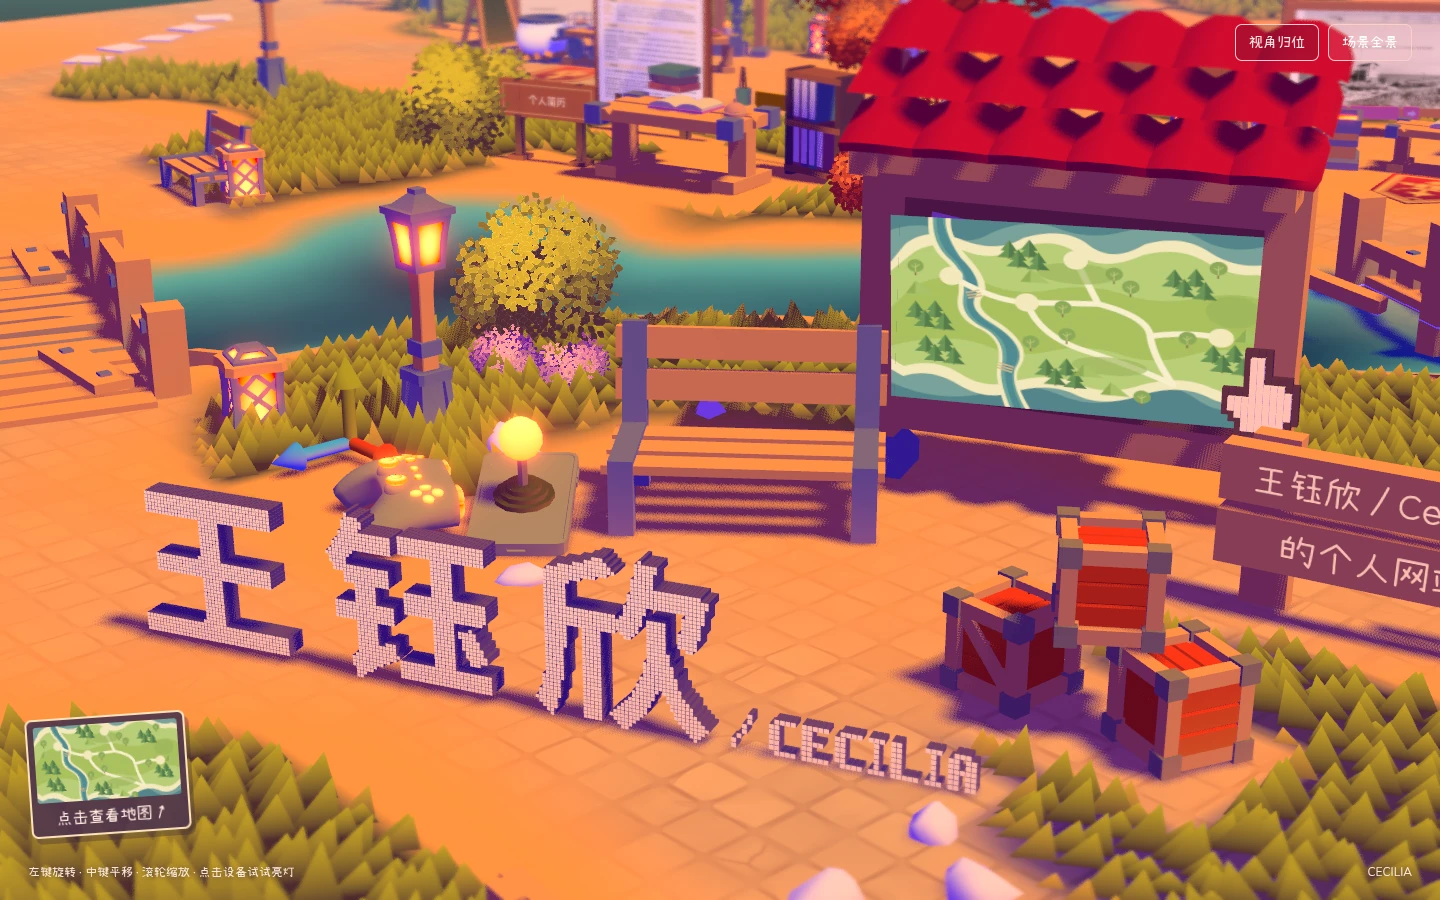
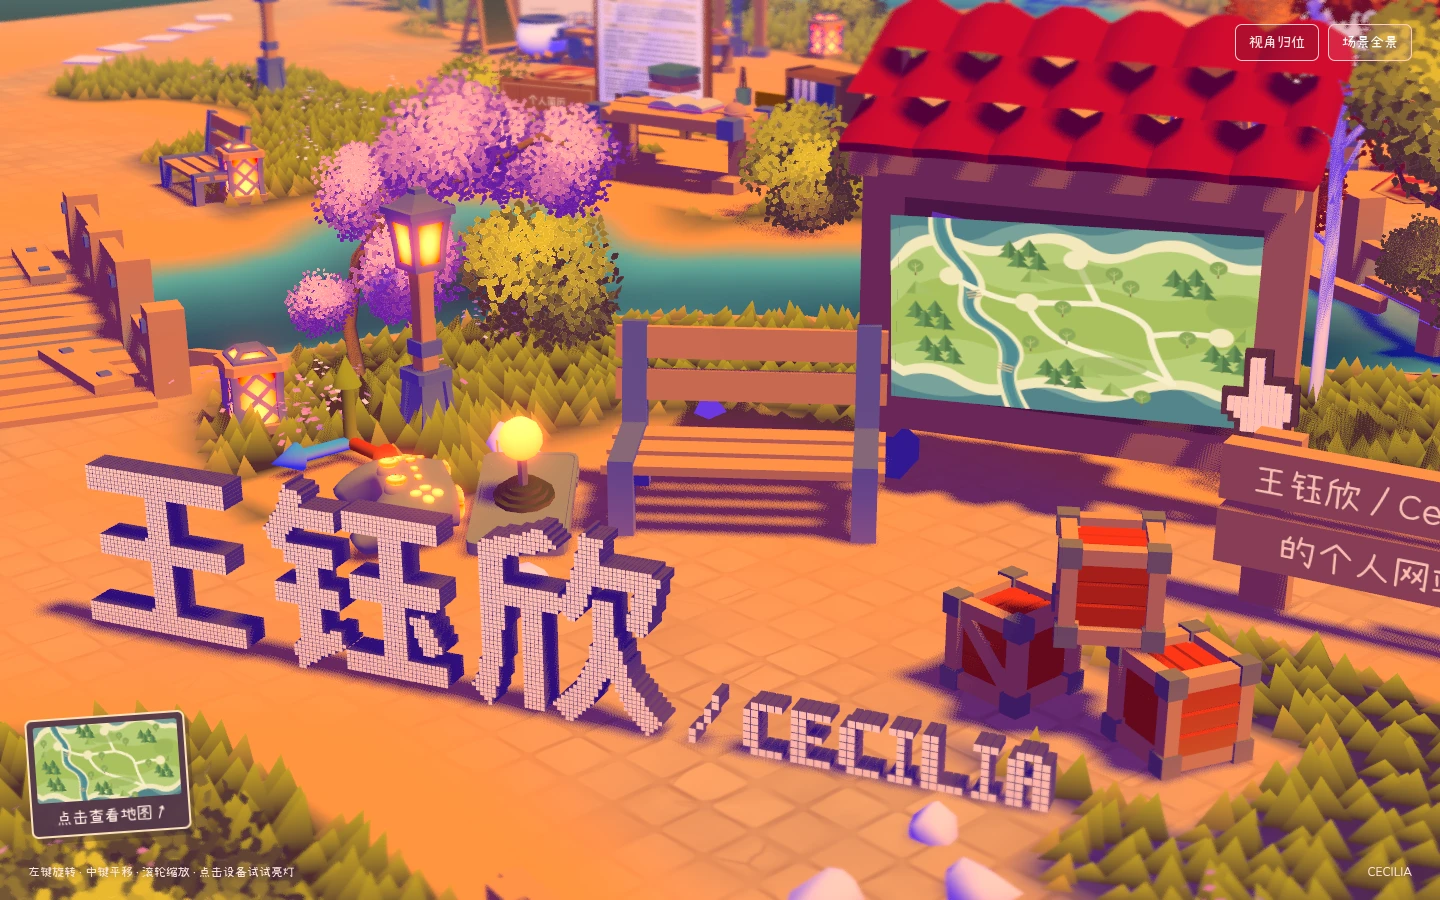
Restore native flowers and denser woodland, enlarge entry name and remove mailbox frame

diff --git a/experiments/bruno-projects/src/create-world.js b/experiments/bruno-projects/src/create-world.js
@@ -18,7 +18,7 @@ import { Floor } from "./bruno/World/Floor.js";
 import { Grass } from "./bruno/World/Grass.js";
 import { Trees } from "./bruno/World/Trees.js";
 import { Bushes } from "./bruno/World/Bushes.js";
-import { Foliage } from "./bruno/World/Foliage.js";
+import { Flowers } from "./bruno/World/Flowers.js";
 import { cheapDOF } from "./bruno/Passes/cheapDOF.js";
 
 export { T };
@@ -136,6 +136,7 @@ export async function createWorld(canvas, progress) {
     birchTreesReferencesModel: "birchTrees/birchTreesReferences.glb",
     cherryTreesVisualModel: "cherryTrees/cherryTreesVisual.glb",
     cherryTreesReferencesModel: "cherryTrees/cherryTreesReferences.glb",
+    flowersReferencesModel: "flowers/flowersReferences.glb",
     benchesModel: "benches/benches.glb",
     fencesModel: "fences/fences.glb",
     lanternsModel: "lanterns/lanterns.glb",
@@ -289,37 +290,39 @@ export async function createWorld(canvas, progress) {
   game.world.grass.bladeHeight.value = 0.65;
   const near = (object) =>
     Math.hypot(object.position.x - center.x, object.position.z - center.z) < 48;
+  const nearVegetation = (object) =>
+    Math.hypot(object.position.x - center.x, object.position.z - center.z) < 72;
+  // Rectangles follow the actual fixtures, rather than clearing whole 9–12m
+  // circles around them. Keep the open entrance silhouette and dry paths.
+  const beds = {
+    trees:[[35,31,51,46],[18.5,19,30,28],[49.5,25,59.5,35],[21,2,29,10],[30,9,39,17],[10,14,18,22]],
+    low:[[35,35,43,42],[39,30,46.5,36.5],[46,33,50,36],[19.5,20,29,28],[50,26,59,34],[24,5,38,15],[10,14,18,21]],
+  };
+  const inBed=(x,z,kind)=>beds[kind].some(([left,top,right,bottom])=>x>left&&x<right&&z>top&&z<bottom);
+  const inName=(x,z)=>{
+    const a=Math.PI/7.2,dx=x-43,dz=z-42.5;
+    return Math.abs(dx*Math.cos(a)-dz*Math.sin(a))<7 && Math.abs(dx*Math.sin(a)+dz*Math.cos(a))<1.1;
+  };
+  game.world.vegetationStats={trees:{},bushes:0,flowers:0};
   for (const [type, a, b] of [
     ["oak", "#b4b536", "#d8cf3b"],
     ["birch", "#ff4f2b", "#ff903f"],
     ["cherry", "#ed82a0", "#ffc1c5"],
   ]) {
-    const clearings = [
-      [43, 43, 7],
-      [25, 6, 4],
-      [35, 13, 4],
-      [14, 18, 3],
-      [48, 25, 7],
-      [26, 24, 9],
-      [47, 29, 7],
-      [45, 49, 12],
-    ];
     const refs = game.resources[type + "TreesReferencesModel"].scene.children
-      .filter(near)
-      .filter((tree) =>
-        clearings.every(
-          ([x, z, r]) =>
-            Math.hypot(tree.position.x - x, tree.position.z - z) > r,
-        ),
-      );
+      .filter(nearVegetation)
+      .filter(tree=>!inBed(tree.position.x,tree.position.z,"trees")&&surface.check(tree.position.x,tree.position.z,.5,.5).maxWater<=5);
     if(type==="cherry"){
-      // Restore pink accents around the clearings, never on paving or water.
+      // Reuse the native cherry geometry to flank our wider bilingual entry.
+      // The native tree at the controller's location cannot stay under it.
       const template=game.resources.cherryTreesReferencesModel.scene.children[0];
-      for(const [x,z,scale] of [[32,35,.65],[47,23,.6],[59,33,.7]]){
-        if(surface.check(x,z,1.8,1.8).maxWater>5||surface.sample(x,z).road>120)continue;
-        const tree=template.clone();tree.position.set(x,surface.sample(x,z).height,z);tree.scale.multiplyScalar(scale);tree.updateMatrix();tree.updateMatrixWorld();refs.push(tree);
+      for(const [x,z,scale] of [[33,38,.75],[59,39,.65]]){
+        const ground=surface.check(x,z,.7,.7);
+        if(ground.maxWater>5||surface.sample(x,z).road>120)continue;
+        const ref=template.clone();ref.position.set(x,ground.height,z);ref.scale.multiplyScalar(scale);ref.updateMatrix();ref.updateMatrixWorld(true);refs.push(ref);
       }
     }
+    game.world.vegetationStats.trees[type]=refs.length;
     if (refs.length)
       game.world[type + "Trees"] = new Trees(
         type,
@@ -330,25 +333,23 @@ export async function createWorld(canvas, progress) {
       );
   }
   game.resources.bushesReferences.scene.children =
-    game.resources.bushesReferences.scene.children.filter(near).filter((b) =>
-      [
-        [26, 24, 6],
-        [47, 29, 5],
-        [45, 49, 12],
-      ].every(
-        ([x, z, r]) => Math.hypot(b.position.x - x, b.position.z - z) > r,
-      ),
+    game.resources.bushesReferences.scene.children.filter(nearVegetation).filter((b) =>
+      !inBed(b.position.x,b.position.z,"low")&&!inName(b.position.x,b.position.z),
     );
   game.world.bushes = new Bushes();
-  const flowers=[];
-  const bushTemplate=game.resources.bushesReferences.scene.children[0];
-  for(const [x,z] of [[34,36],[35,35.6],[46,23],[47,22.8],[58.5,32.5],[59.2,33.4]]){
-    if(surface.check(x,z,.7,.7).maxWater>5||surface.sample(x,z).road>120)continue;
-    const ref=bushTemplate.clone();ref.position.set(x,surface.sample(x,z).height+.22,z);ref.scale.setScalar(.45);ref.updateMatrix();flowers.push(ref);
+  game.world.vegetationStats.bushes=game.resources.bushesReferences.scene.children.length;
+  const flowerRefs=game.resources.flowersReferencesModel.scene.children.filter(nearVegetation);
+  // Native clusters now populate the banks and path edges, including the
+  // foreground that was previously blank. Each individual cluster is checked.
+  for(const [x,z] of [[33,36],[34,38],[34,41],[36,46],[39,48],[44,48],[49,47],[51,41],[52,36],[48,23],[29,29],[20,29]]){
+    const ref=new T.Object3D();ref.position.set(x,surface.sample(x,z).height+.384,z);flowerRefs.push(ref);
   }
-  if(flowers.length){
-    game.world.pinkFlowers=new Foliage(flowers,uniform(color("#df7198")),uniform(color("#ffb6bc")));
-  }
+  const flowerAccepts=(x,z)=>{
+    const floor=surface.sample(x,z);
+    return floor.water<=5&&floor.road<120&&floor.grass>100&&!inBed(x,z,"low")&&!inName(x,z);
+  };
+  game.world.flowers=new Flowers(flowerRefs,flowerAccepts);
+  game.world.vegetationStats.flowers=game.world.flowers.transformMatrices.length;
   function clean(root) {
     const remove = [];
     root.traverse((m) => {

diff --git a/experiments/bruno-projects/src/bruno/World/Flowers.js b/experiments/bruno-projects/src/bruno/World/Flowers.js
@@ -1,0 +1,69 @@
+// Adapted from Bruno Simon's folio-2025 Flowers.js (MIT, pinned in ASSET_SOURCE).
+// Retains the original eight-petal clusters and wind; filters new fixtures out.
+import * as THREE from 'three/webgpu'
+import { attribute, color, Fn, instance, mix, positionLocal, vec3 } from 'three/tsl'
+import { mergeGeometries } from 'three/addons/utils/BufferGeometryUtils.js'
+import { alea } from 'seedrandom'
+import { Game } from '../Game.js'
+import { MeshDefaultMaterial } from '../Materials/MeshDefaultMaterial.js'
+
+export class Flowers {
+    constructor(references, accepts) {
+        this.game = Game.getInstance()
+        this.references = references
+        const rng = new alea('flowers')
+        const matrices = [], tints = []
+        this.positions = []
+        for(const ref of references) {
+            const count = 3 + Math.floor(rng() * 8)
+            for(let i = 0; i < count; i++) {
+                const x = ref.position.x + (rng() - .5) * 3
+                const z = ref.position.z + (rng() - .5) * 3
+                const angle = rng() * Math.PI * 2, scale = .6 + rng() * .4
+                const tint = rng() < .65 ? .8 + rng() * .2 : .1
+                if(!accepts(x,z)) continue
+                const object = new THREE.Object3D()
+                object.position.set(x,ref.position.y,z)
+                object.rotation.y = angle
+                object.scale.setScalar(scale)
+                object.updateMatrix()
+                matrices.push(object.matrix)
+                tints.push(tint)
+                this.positions.push([x,z])
+            }
+        }
+        this.transformMatrices = matrices
+        const planes = []
+        for(let i = 0; i < 8; i++) {
+            const plane = new THREE.PlaneGeometry(.08,.08)
+            const spherical = new THREE.Spherical(1,Math.PI * .2 * rng(),Math.PI * 2 * rng())
+            const direction = new THREE.Vector3().setFromSpherical(spherical)
+            const position = direction.clone().setLength(1 + (rng() - .5) * .5)
+            position.y -= .75
+            const matrix = new THREE.Matrix4().lookAt(direction,new THREE.Vector3(),new THREE.Vector3(0,1,0))
+            matrix.setPosition(position).scale(new THREE.Vector3().setScalar(1 + rng() - .5))
+            planes.push(plane.applyMatrix4(matrix))
+        }
+        const geometry = mergeGeometries(planes)
+        planes.forEach(p=>p.dispose())
+        geometry.deleteAttribute('uv')
+        geometry.setAttribute('flowerTint',new THREE.InstancedBufferAttribute(new Float32Array(tints),1))
+        this.material = new MeshDefaultMaterial({
+            side:THREE.DoubleSide,
+            colorNode:mix(color('#fff3df'),color('#ef93b7'),attribute('flowerTint','float')),
+            hasWater:false,
+        })
+        this.instanceMatrix = new THREE.InstancedBufferAttribute(new Float32Array(matrices.length * 16),16)
+        matrices.forEach((matrix,i)=>matrix.toArray(this.instanceMatrix.array,i * 16))
+        this.material.positionNode = Fn(({object})=>{
+            instance(object.count,this.instanceMatrix).toStack()
+            const wind = this.game.wind.offsetNode(positionLocal.xz)
+            return positionLocal.add(vec3(wind.x,0,wind.y).mul(positionLocal.y.clamp(0,1)))
+        })()
+        this.mesh = new THREE.InstancedMesh(geometry,this.material,matrices.length)
+        this.mesh.name = 'native-pink-and-ivory-flowers'
+        this.mesh.castShadow = this.mesh.receiveShadow = true
+        this.mesh.frustumCulled = false
+        this.game.scene.add(this.mesh)
+    }
+}

diff --git a/experiments/bruno-projects/src/scene-fixtures.js b/experiments/bruno-projects/src/scene-fixtures.js
@@ -276,7 +276,7 @@ export function createFixtures(world) {
     const roof = box(root, [1.2, 0.16, 0.92], [-0.65, 2.18, 0], "edge");
     roof.rotation.z = -0.06;
     box(root, [0.62, 0.055, 0.04], [-0.65, 1.8, 0.39], "edge");
-    const letter = print("邮箱", 0.85, 0.38, { bg: "#b65a69", size: 180, fit:true });
+    const letter = print("邮箱", 0.85, 0.38, { bg: null, size: 180, fit:true });
     letter.name="mailbox-label";
     letter.position.set(-0.65, 1.45, 0.385);
     root.add(letter);
@@ -340,7 +340,7 @@ export function createFixtures(world) {
       const data = ctx.getImageData(0, 0, 56, 56).data;
       for (let y = 0; y < 52; y++) for (let x = 0; x < 52; x++)
         if (data[(y * 56 + x) * 4 + 3] > 150) pixels.push([offset + x, 51 - y]);
-      offset += 58;
+      offset += 52;
     }
     const alphabet = {
       C: ["01111","11000","11000","11000","11000","11000","01111"],
@@ -365,13 +365,14 @@ export function createFixtures(world) {
     const frontPower = uniform(1);
     const front = material({colorNode:color(colors.cream).mul(frontPower),hasWater:false});
     const sides = [materials.purple, materials.purple, materials.purple, materials.purple, front, materials.purple];
-    const chineseCell=cell*1.1/2*1.15,captionCell=.045*1.15*1.1;
+    const overallScale=1.12;
+    const chineseCell=cell*1.1/2*1.15*overallScale,captionCell=.045*1.15*1.1*1.3*overallScale;
     const minX=Math.min(...pixels.map(p=>p[0]))*chineseCell-chineseCell/2;
     const chineseRight=Math.max(...pixels.map(p=>p[0]))*chineseCell+chineseCell/2;
-    const captionStart=chineseRight+.24*1.15,captionRight=captionStart+(captionOffset-1)*captionCell;
+    const captionStart=chineseRight+.24*1.15*overallScale,captionRight=captionStart+(captionOffset-1)*captionCell;
     const centerX=(minX+captionRight)/2,minY=Math.min(...pixels.map(p=>p[1]));
     function blocks(points,size,name,xOffset=0,yOffset=0){
-      const mesh=new T.InstancedMesh(new T.BoxGeometry(size*.88,size*.88,(name==='voxel-name-caption'?.15*1.1:.27)*1.15),sides,points.length),matrix=new T.Matrix4();
+      const mesh=new T.InstancedMesh(new T.BoxGeometry(size*.88,size*.88,(name==='voxel-name-caption'?.15*1.1*1.3:.27)*1.15*overallScale),sides,points.length),matrix=new T.Matrix4();
       mesh.name=name;mesh.castShadow=mesh.receiveShadow=true;
       points.forEach(([x,y],i)=>mesh.setMatrixAt(i,matrix.makeTranslation(x*size+xOffset-centerX,(y+yOffset+.5)*size,0)));
       mesh.instanceMatrix.needsUpdate=true;mesh.computeBoundingBox();root.add(mesh);return mesh;
@@ -381,10 +382,11 @@ export function createFixtures(world) {
     root.rotation.y = Math.PI / 7.2;
     const localWidth=captionRight-minX;
     parcel(root, 43, 42.5, 1, { plaza: true, radius: 1, prepared: true,
-      precise:true,oriented:{angle:root.rotation.y,width:localWidth,depth:.27*1.15} });
+      precise:true,oriented:{angle:root.rotation.y,width:localWidth,depth:.27*1.15*overallScale} });
     root.userData.text = "王钰欣 / CECILIA";
     root.userData.blockCount = chineseCount+caption.length;
     root.userData.glyphResolution=56;
+    root.userData.chineseAdvance=52;
     root.userData.captionRatio=captionCell*7/((Math.max(...pixels.map(p=>p[1]))-minY+1)*chineseCell);
     root.userData.lightOn = false;
     root.toggleLight = () => {

diff --git a/README.md b/README.md
@@ -10,6 +10,7 @@
 - `resume.html?document=1`、`resume-document.css`、`resume-document.js`：保留用户两页 PDF 原稿的简历阅读与打印页；`resume.html`、`works.html` 和旧书签跳至对应三维入口。旧 `world-resume.css` 仍供历史其他项目页使用，不修改。
 - QA：`tests/design-world.cjs`、`tests/portfolio-routing.cjs`、`tests/bruno-preview.cjs`、`tests/bruno-animation.cjs`。真实截图在 `experiments/bruno-projects/public/review/`。
 - 联系方式整组位于入口右侧的原键盘空地，信箱字面与呼吸圆环可直接写邮件；平面地图同步新落点，姓名入口可回到原始镜头。红屋顶地图牌缩小 15% 并按实际双脚落地，欢迎牌保留原比例和位置，两行小赖文字限制在木板内。姓名使用 56 像素采样方块，提高笔画间隙；风场与原生叶簇摆动共用日间渲染，补充粉色植被。`tests/contact-clearing.cjs` 校验迁移、模型碰撞、字面边界、风动和地图返回。
+- 植被补全：接入原版 `Flowers` 模块的八片花瓣与花丛分布资源，补充粉色／浅色花丛；树木及灌木显示范围扩大到 72 单位，按模型所在区域避让，入口补充原生粉色树。姓名组合再放大 12%，英文额外放大 30%，中文字进位从 58 收紧至 52；信箱字面透明，不再绘制矩形边框。原始花丛资源的 SHA-256 记于 `public/bruno/manifest.json`。
 
 ## 历史小岛实现（已不作为入口）
 

diff --git a/experiments/bruno-projects/ASSET_SOURCE.md b/experiments/bruno-projects/ASSET_SOURCE.md
@@ -4,6 +4,8 @@
 
 上游：<https://github.com/brunosimon/folio-2025>
 
+植被补全另外复用同一固定提交的 `static/flowers/flowersReferences.glb` 及 `sources/Game/World/Flowers.js`。花瓣几何与风动方式沿用原版，适配本网站的模型避让、确定性随机及粉色／浅色配色。核对用的官方预览为 `static/social/share-image.png` 与 `static/ui/previews/home.png`，未复制进网站界面。
+
 MIT，Copyright (c) 2025 Bruno Simon；完整许可证位于 `public/BRUNO-LICENSE.txt`。模型保持原始几何、原色板；试验页仅提取作品区域、附近环境，替换个人作品数据和阅读行为。车辆、驾驶、后台和排行榜不接入。
 
 `src/bruno/Game.js` 是视觉依赖适配器，不是原游戏入口。物理和车辆相关回调在试验页中不运行，视觉模块的依赖适配记录在 `src/main.js`。
